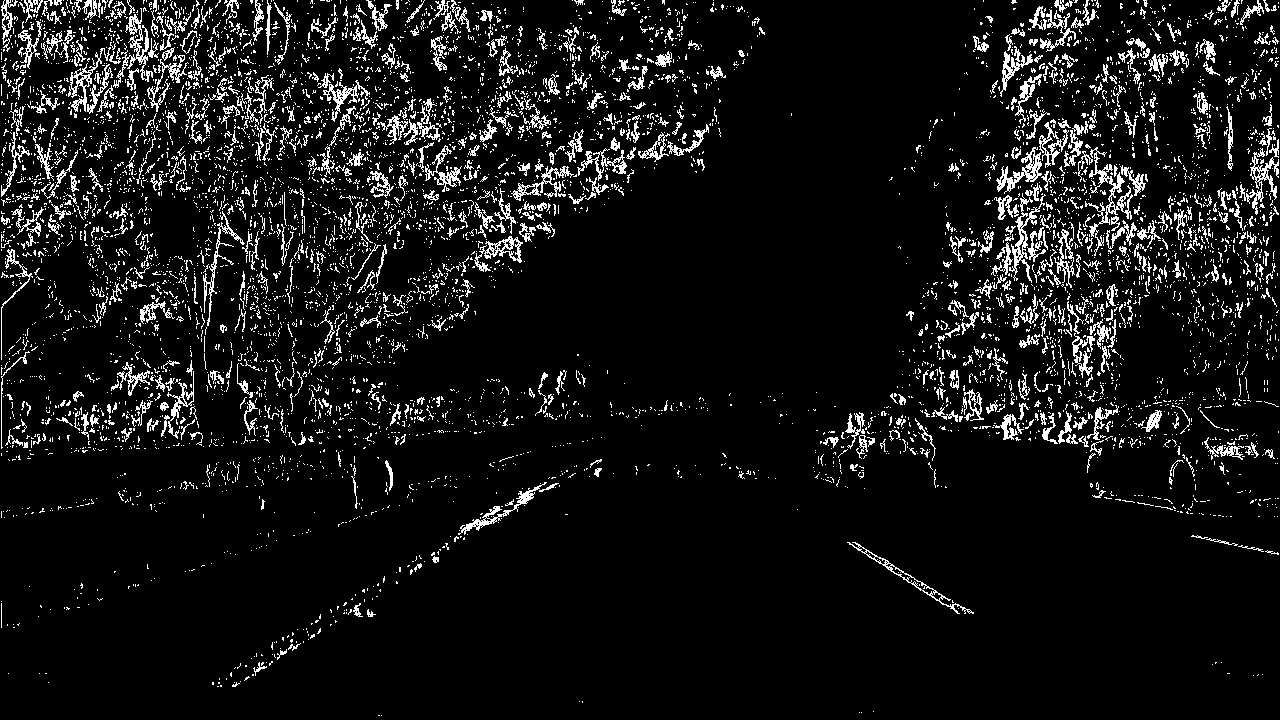
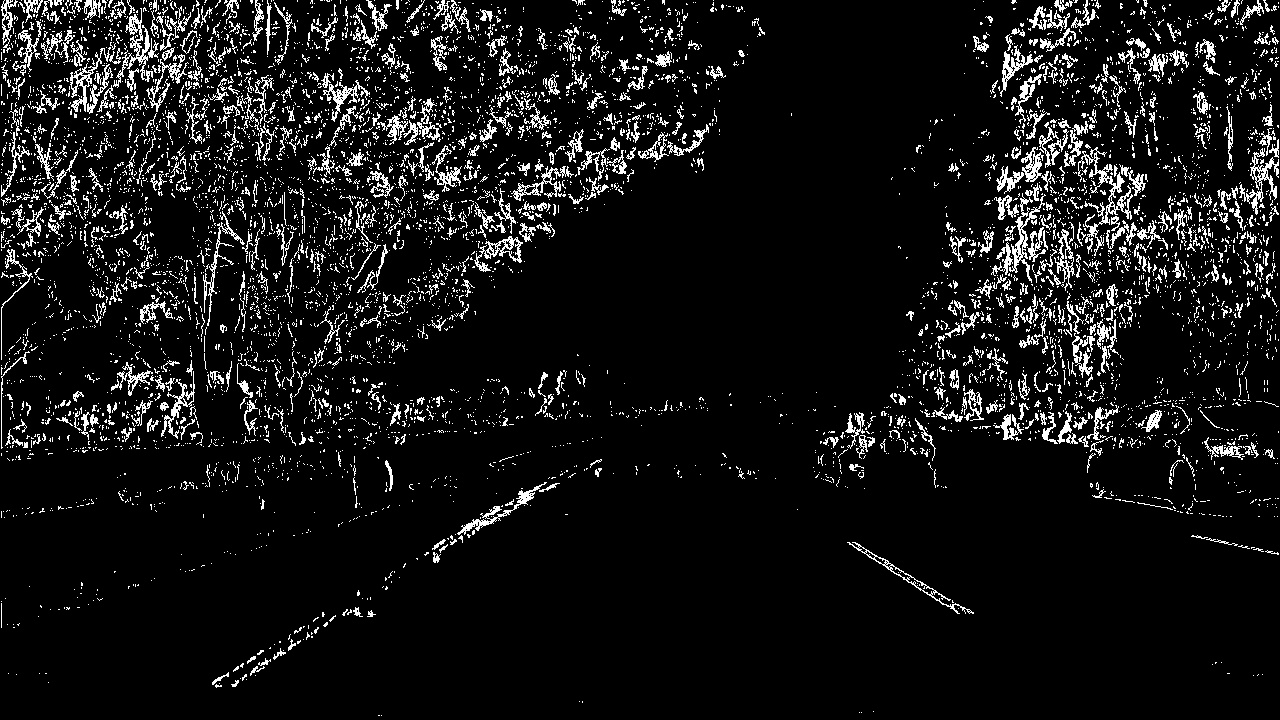
Fix error in binarizing file

diff --git a/binarize_image.py b/binarize_image.py
@@ -1,6 +1,7 @@
 import numpy as np
 import cv2
 import matplotlib.pyplot as plt
+import matplotlib.image as mpimg
 
 class ImageBinarizer:
 
@@ -13,7 +14,7 @@ class ImageBinarizer:
 
 
 	def binarize_file(self, source_image_file, destination_image_file):
-		image = cv2.imread(source_image_file)
+		image = mpimg.imread(source_image_file)
 		binarized = self.binarize(image)
 		plt.imsave(destination_image_file, binarized, cmap='gray')
 

diff --git a/transform_perspective.py b/transform_perspective.py
@@ -1,10 +1,10 @@
 import cv2
 import pickle
 
-class PerspectiveTransormer:
-	def __init__(self, src, dst):
-		self.M = cv2.getPerspectiveTransform(src, dst)
-		self.Minv = cv2.getPerspectiveTransform(dst, src)
+class PerspectiveTransformer:
+    def __init__(self, src, dst):
+        self.M = cv2.getPerspectiveTransform(src, dst)
+        self.Minv = cv2.getPerspectiveTransform(dst, src)
 
 
     def transform(self, img):
